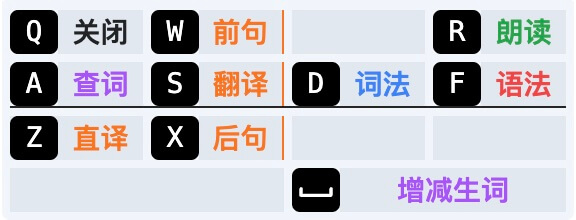
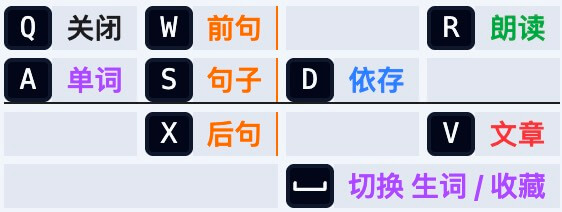
部分更新过时内容

Changed region(s): [[0.0, 0.0283, 0.9982, 0.7358], [0.484, 0.7358, 0.968, 0.9906]]

diff --git a/comp/demo/Index.vue b/comp/demo/Index.vue
@@ -9,7 +9,7 @@ Carousel(
     img(:src="getImgUrl(props.i)")
   div(v-for="(item, idx) in infoArr", :key="item.title")
     h3(
-      class="text-center !mt-0 !text-2xl font-mono" 
+      class="!mt-0 font-mono !text-2xl text-center" 
       :style="{color: item.color}"
     ) {{ item.title }}
     div(class="p-2")
@@ -32,7 +32,7 @@ const infoArr = [
   { title: "查词 & 生词高亮", src: img1, color: "purple" },
   { title: "朗读 & AI 直译", src: img2, color: "orange" },
   { title: "朗读 & 机器翻译 ", src: img3, color: "orange" },
-  { title: "NLP 词法依赖", src: img4, color: "blue" },
+  { title: "NLP 词法依存", src: img4, color: "blue" },
   { title: "AI 语法分析", src: img5, color: "darkred" },
 ];
 

diff --git a/Tutorial/Desktop/Setting.md b/Tutorial/Desktop/Setting.md
@@ -52,48 +52,40 @@
           </div>
           <div><i>注意</i>: 通过插件打开PDF时，仅支持<b class="bg-[#c8c0ff]">背景色</b>+<b class="border-black border-b-[1px]">下划线</b>组合设置。<b class="text-blue-500">字体色</b>对渲染有冲突。</div>
         </li>
-        <li>
-          <b>策略</b>:
-          <ul>
-            <li><b>全文策略</b> 高亮网页内所有单词；</li>
-            <li><b>动态策略</b> 高亮视野范围内的单词。</li>
-          </ul>
-        </li>
       </ul>
     </li>
     <li>
       <div><b>快捷操作</b>:</div>
       <ul>
         <li>
-          <b>电脑端</b>: 采用 <kbd>Space</kbd> <kbd>A</kbd> <kbd>S</kbd> <kbd>D</kbd> <kbd>F</kbd> <kbd>Q</kbd> 作为主要快捷键
+          <b>电脑端</b>: 采用 <kbd>Space</kbd> <kbd>A</kbd> <kbd>S</kbd> <kbd>D</kbd> <kbd>V</kbd> <kbd>Q</kbd> 作为主要快捷键
           <img width="300" src="../../screenshot/popup/电脑端快捷操作.jpg" />
           <ul>
             <li>主要快捷键:
               <ul>
                 <li><b>A 键</b>: <b>查询单词</b>。在单词上按 <kbd>A</kbd> 键</li>
-                <li><b>空格</b>: <b>增减生词</b>。出现单词释义时，按<kbd>Space</kbd>键</li>
-                <li><b>S 键</b>: <b>机译整句</b>。在单词所在句子上按 <kbd>S</kbd> 键</li>
-                <li><b>D 键</b>: <b>词法依赖</b>。在单词所在句子上按 <kbd>D</kbd> 键</li>
-                <li><b>F 键</b>: <b>语法分析</b>。在单词所在句子上按 <kbd>F</kbd> 键</li>
+                <li><b>S 键</b>: <b>翻译整句</b>。在单词所在句子上按 <kbd>S</kbd> 键</li>
+                <li><b>D 键</b>: <b>词法依存</b>。在单词所在句子上按 <kbd>D</kbd> 键</li>
+                <li><b>V 键</b>: <b>文章摘要</b>。在页面上按 <kbd>V</kbd> 键</li>
+                <li><b>空格</b>: <b>增减生词/切换收藏</b>。出现单词释义或语句翻译时，按<kbd>Space</kbd>键</li>
               </ul>
             </li>
             <li>次要快捷键:
               <ul>
-                <li><b>Z 键</b>: <b>直译整句</b>。在单词所在句子上按 <kbd>Z</kbd> 键</li>
                 <li><b>W 键</b>: <b>翻译上句</b>。在单词所在句子上按 <kbd>W</kbd> 键</li>
                 <li><b>X 键</b>: <b>翻译下句</b>。在单词所在句子上按 <kbd>X</kbd> 键</li>
+                <li><b>R 键</b>: <b>朗读</b>。朗读当前操作的对象：单词、句子</li>
               </ul>
             </li>
           </ul>
         </li>
         <li>
-          <b>移动端</b>: 采用 <kbd>点</kbd> <kbd>右</kbd> <kbd>左</kbd> <kbd>选</kbd> 作为快捷操作
+          <b>移动端</b>: 采用 <kbd>点击</kbd> <kbd>右滑</kbd> <kbd>选择</kbd> 作为快捷操作
           <img width="300" src="../../screenshot/popup/移动端快捷操作.jpg" />
           <ul>
-            <li><b>点</b>: <b>查词</b>。点击单词，查看释义</li>
-            <li><b>右</b>: <b>翻译</b>。向右滑动单词，翻译整句</li>
-            <li><b>左</b>: <b>语法</b>。向左滑动单词，分析语法</li>
-            <li><b>选</b>: <b>兜底</b>。选择文本后，自由选择查词、翻译、语法</li>
+            <li><b>点击</b>: <b>查词</b>。点击单词，查看释义</li>
+            <li><b>右滑</b>: <b>翻译</b>。向右滑动单词，翻译整句</li>
+            <li><b>选择</b>: <b>兜底</b>。选择文本后，自由选择查词、翻译、语法</li>
           </ul>
         </li>
       </ul>

diff --git a/README.md b/README.md
@@ -12,7 +12,7 @@
 🎯【语境记忆法】：情境中学习，单词用法一目了然！  
 🌐【即时翻译神器】：无缝切换，阅读流畅无阻！  
 🎧【发音朗读】：视听结合，记忆效率翻倍！  
-📊【词法依赖分析】：洞悉句子骨架，语法难题迎刃而解！  
+📊【词法依存分析】：洞悉句子骨架，语法难题迎刃而解！  
 💡【语法专家解读】：深度解析，长难句不再是梦魇！  
 🚀 立即体验，开启你的英语学习新纪元！
 
@@ -42,7 +42,7 @@
 
 - 插件提供单词发音和整句朗读功能，通过听觉和视觉的结合，增强记忆效果，使学习过程更加生动。
 
-### 六：词法依赖
+### 六：词法依存
 
 - 插件能够精确分析句中每个单词的词性和词汇之间的依存关系。便于深入理解句子结构，提升语言解析能力。
 
@@ -63,7 +63,7 @@
 ### 快捷键（默认）
 
 - <kbd>Alt</kbd> + <kbd>U</kbd> 启用插件。
-- <kbd>A</kbd> 键：查询单词；<kbd>S</kbd> 键：翻译整句；<kbd>D</kbd> 键：词汇依赖；<kbd>F</kbd> 键：语法分析。
+- <kbd>A</kbd> 键：查询单词；<kbd>S</kbd> 键：翻译整句；<kbd>D</kbd> 键：词法依存；<kbd>V</kbd> 键：文章摘要。
 
 ![快捷键](./public/keyboard.png)
 
@@ -79,7 +79,7 @@
 
 ![机器翻译](./comp/demo/assets/朗读+机器翻译.jpg)
 
-### NLP 词法依赖
+### NLP 词法依存
 
 ![词法](./comp/demo/assets/词法.jpg)
 

diff --git a/Tutorial/Gpt/prompt/index.md b/Tutorial/Gpt/prompt/index.md
@@ -4,9 +4,9 @@
 
 > 不同的提示词，是从不同的英语学习角度或需求出发，让大模型帮助我们解决痛点需求。
 
-## 单词 {#word}
+## 一、 单词 {#word}
 
-### 词典
+### 1. 词典
 
 ```markdown
 你是一个专业的英汉词典助手，请根据以下规则解析用户输入的单词：
@@ -29,7 +29,7 @@
 - 不要总结，只回复上方明确要求的内容
 ```
 
-### 语境
+### 2. 语境
 
 提示：语境需要指定变量：**word**、**sentence**
 
@@ -41,9 +41,9 @@
 - **含义**: 当前语境中的含义
 ```
 
-## 句子 {#sentence}
+## 二、句子 {#sentence}
 
-### 语法
+### 1. 语法
 
 ```markdown
 请帮我分析英语语法，识别并提炼主谓宾定状补、句中短语、固定搭配等。
@@ -58,7 +58,7 @@
 5. 专注于句子本身，不进行扩展。
 ```
 
-### 拆分
+### 2. 拆分
 
 目的：长句拆短句
 
@@ -85,21 +85,21 @@
 请严格按照以上要求生成最终翻译结果。
 ```
 
-### 信达雅
+### 3. 信达雅
 
 ```markdown
 要求按照信达雅翻译为中文
 ```
 
-### 改写
+### 4. 改写
 
 ```markdown
 将原文改写为初中英文水平或英语初学者能够轻松阅读的英文句子。
 ```
 
-## 文章 {#article}
+## 三、文章 {#article}
 
-### 摘要
+### 1. 摘要
 
 ```markdown
 请对文章进行分析，提取并输出以下内容：

diff --git a/Tutorial/Desktop/Show.md b/Tutorial/Desktop/Show.md
@@ -30,21 +30,21 @@
 
 ![整句翻译](../../screenshot/content/整句翻译.png){data-zoomable}
 
-## 4. 词法依赖
+## 4. 词法依存
 
 - 直接分析：在**鼠标所指单词**上，按<kbd>D</kbd> 键
 - 选择分析：先<b class="bg-[#1890ff] text-white">选择</b>句子，再按 <kbd>D</kbd> 键
 
-![整句翻译](../../screenshot/content/词法依赖.png){data-zoomable}
+![整句翻译](../../screenshot/content/词法依存.png){data-zoomable}
 
-## 5. 语法分析
+<!-- ## 5. 语法分析
 
 - 直接分析：在**鼠标所指单词**上，按<kbd>F</kbd> 键
 - 选择分析：先<b class="bg-[#1890ff] text-white">选择</b>句子，再按 <kbd>F</kbd> 键
 
-![整句翻译](../../screenshot/content/语法分析.png){data-zoomable}
+![整句翻译](../../screenshot/content/语法分析.png){data-zoomable} -->
 
-## 6. 生词一览
+## 5. 生词一览
 
 - 展示文章中出现的所有生词
 - 可以预习、复习、删除生词

diff --git a/index.md b/index.md
@@ -35,14 +35,14 @@ features:
     details: "自动选择单词，直接展示释义"
     target: "111"
   - icon: S
-    title: 翻译
-    details: "自动选择语句，直接展示翻译"
+    title: 翻译/语法
+    details: "自动选择语句，进行机译、直译、语法分析"
   - icon: D
     title: 词法
-    details: "图形化展示，词汇之间依赖关系"
-  - icon: F
-    title: 语法
-    details: "利用大模型，自动分析语法"
+    details: "图形化展示，词汇之间依存关系"
+  - icon: V
+    title: 摘要
+    details: "利用大模型，自动分析文章摘要"
   - icon:
       src: /ant-highlight.svg
     title: 高亮

diff --git a/UpdateLog/0.5.md b/UpdateLog/0.5.md
@@ -18,13 +18,13 @@
 
 ![AI 语法分析](../screenshot/update/0.5.0-kimi.png#max-width-512px){data-zoomable}
 
-### 依赖分析
+### 依存分析
 
-**利用 Stanford coreNLP，分析词汇间依赖关系**
+**利用 Stanford coreNLP，分析词汇间依存关系**
 
 支持切换中/英标注。**如中文标注翻译不准确**，请[联系我们](/Contact)。
 
-![NLP 依赖分析](../screenshot/update/0.5.0-corenlp.png#max-width-720px){data-zoomable}
+![NLP 依存分析](../screenshot/update/0.5.0-corenlp.png#max-width-720px){data-zoomable}
 
 ### 自定义快捷键
 

diff --git a/Tutorial/Desktop/Manage.md b/Tutorial/Desktop/Manage.md
@@ -34,7 +34,7 @@
 
 ![词库快筛](../../screenshot/options/词库快筛.png){data-zoomable}
 
-## 3. 个人词库
+<!-- ## 3. 个人词库
 
 - 展示<b>等级内「不认识」的单词</b>
 
@@ -56,9 +56,9 @@
 
 - 提供：**免费**大模型、**本地**(Ollama)大模型、**Kimi** 大模型、**阿里千问**大模型
 
-![语法分析(AI)](<../../screenshot/options/语法分析(AI).png>){data-zoomable}
+![语法分析(AI)](<../../screenshot/options/语法分析(AI).png>){data-zoomable} -->
 
-## 6. 高亮规则
+## 3. 高亮规则
 
 <HighlightRule />
 

diff --git a/EnglishOnline.md b/EnglishOnline.md
@@ -1,5 +1,15 @@
 # 英文 Online
 
+## 初学者
+
+🌍 https://newsforkids.net/
+
+简介：提供新闻，用简单英文讲述，适合儿童及初级学习者阅读当前事件，同时扩展词汇和理解能力。
+
+🌏 https://www.kidsnews.com.au/
+
+简介：儿童新闻网站，有趣且内容明确，覆盖新闻与趣味主题，适合通过阅读了解世界同时练习英文。
+
 ## 国内英文网站
 
 ### [ChinaDaily](https://www.chinadaily.com.cn/)(中国日报)

diff --git a/UpdateLog/index.md b/UpdateLog/index.md
@@ -1,5 +1,7 @@
 # v0.16
 
+> ⚠ 原 **gitee** 提示“**包含不适合公开的内容**”，故 **issue** (建议、bug) 迁移至 [github](https://github.com/wamich/personal-vocabulary)。
+
 ## 0.16.1
 
 ### 更新
@@ -19,4 +21,4 @@
 
 ## 0.16.0
 
-性能问题回退。版本号0.16.0.1 == 回退的版本 0.15.0.1
+性能问题回退。版本号0.16.0.1 === 回退的版本 0.15.0.1
